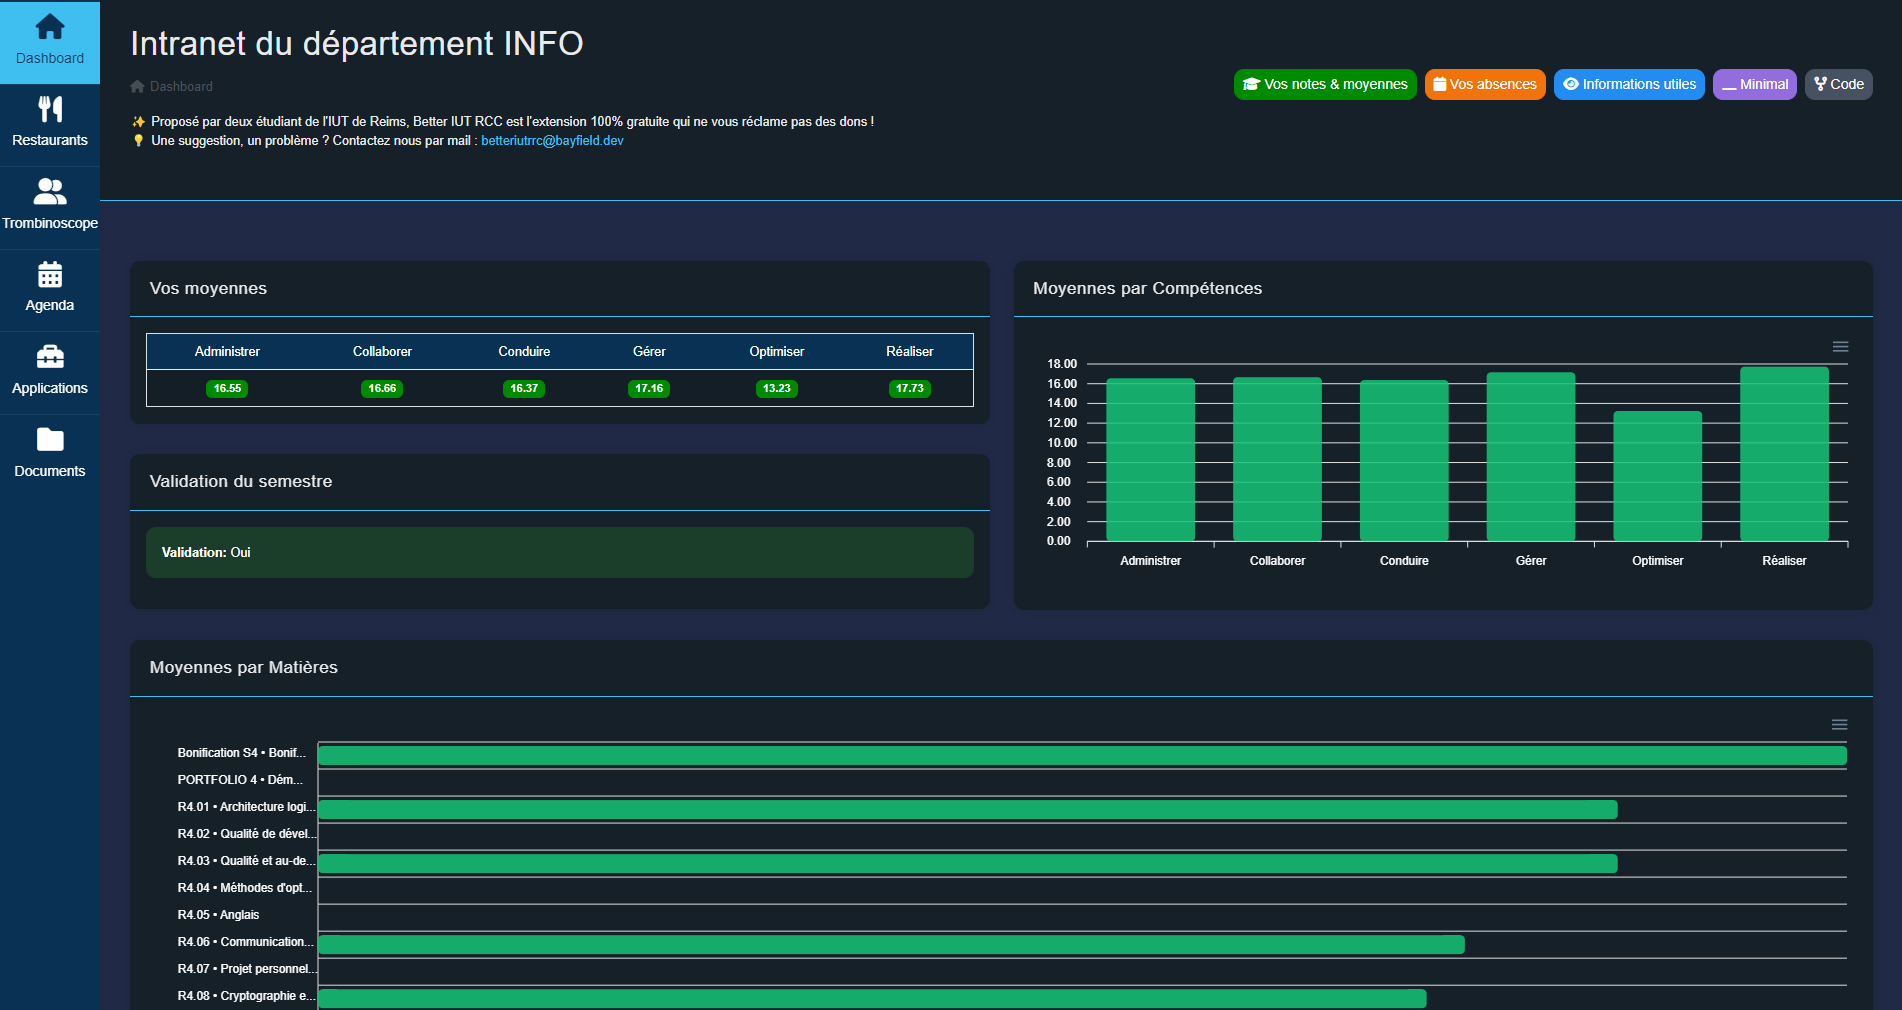
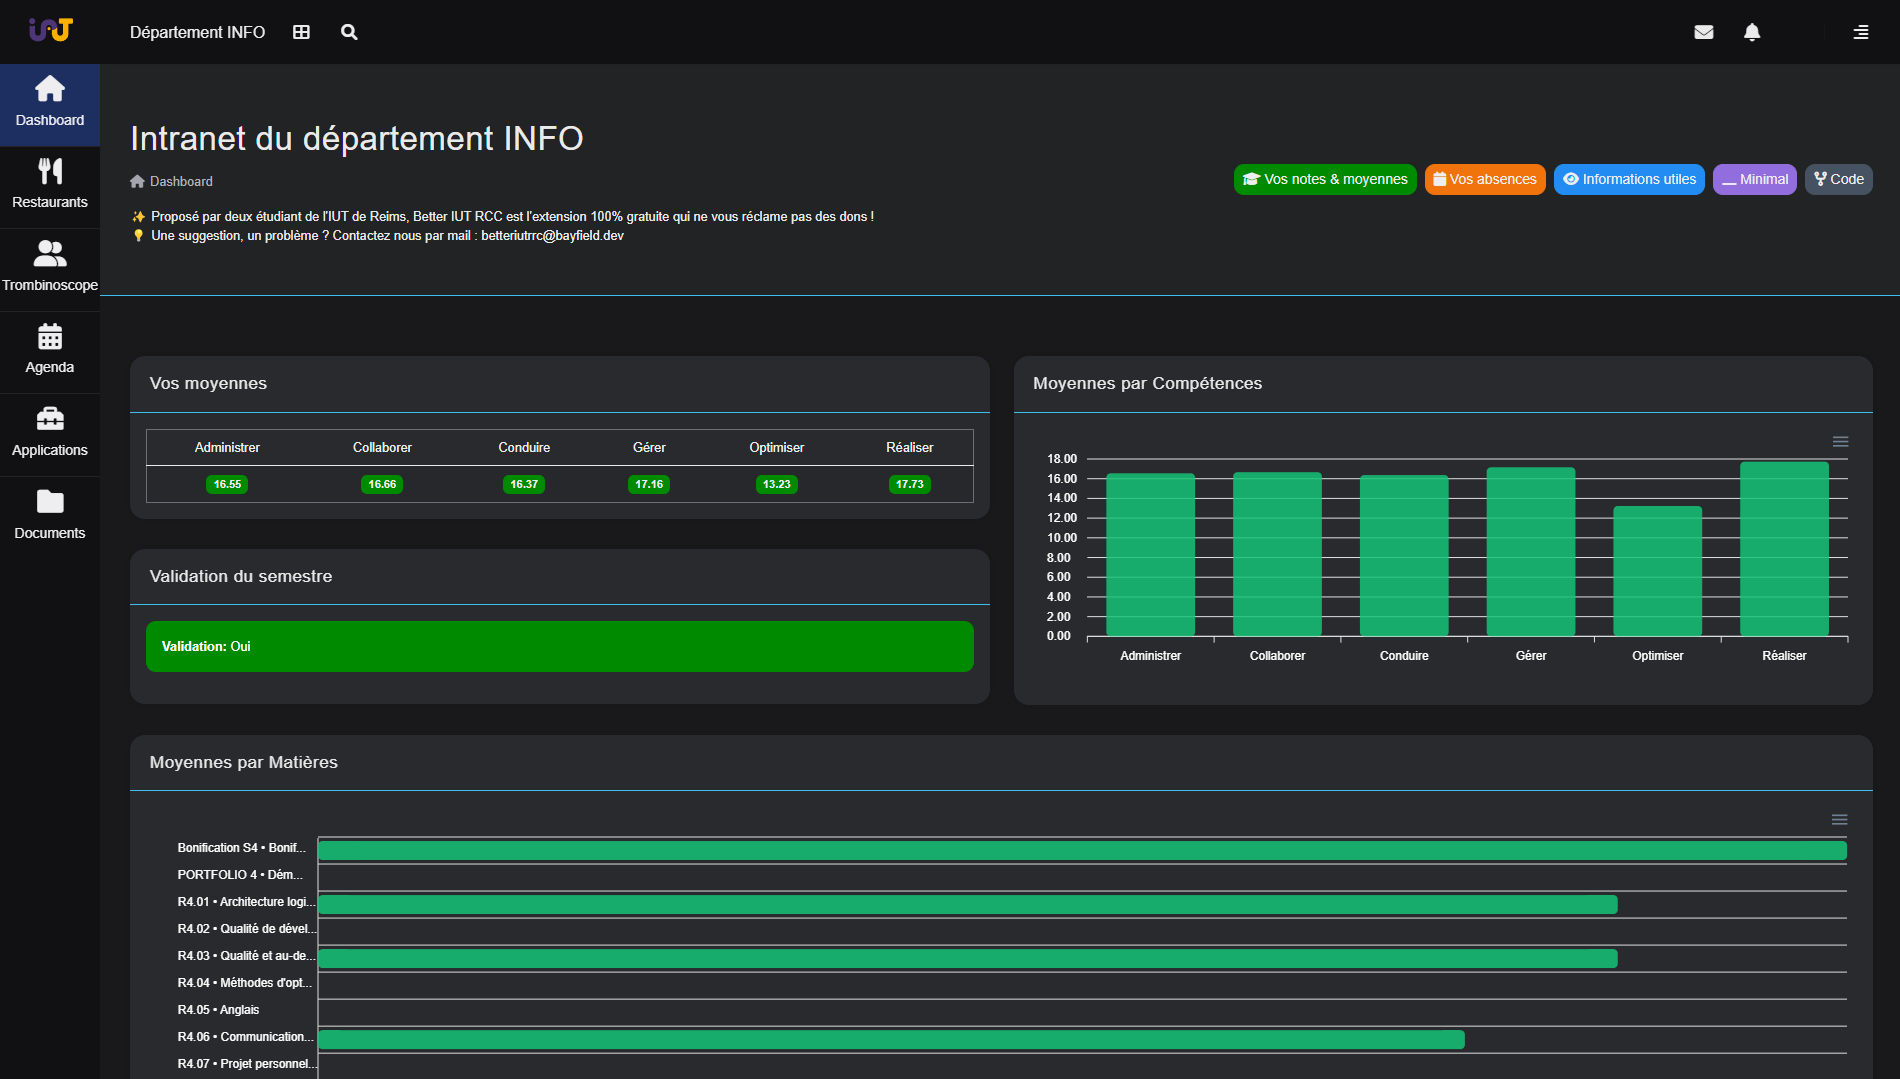
feat: nouveau dark mode

diff --git a/src/css/custom.scss b/src/css/custom.scss
@@ -15,42 +15,114 @@ tr.moyenne {
     font-weight: bold;
 }
 
+.card, .media-list, .code-preview {
+    border-radius: 15px !important;
+}
+
+#darkMode {
+    display: none;
+}
+
 body.rcc.dark-theme {
-    #image-menu {
+    .main-container {
+        background-color: #19191B !important;
+    }
+
+    .topbar {
+        background-color: #111113 !important;
+    }
+
+    .header {
+        background-color: #222325 !important;
+    }
+
+    .card-header-actions {
+        *:hover {
+            color: #EEEEF0 !important;
+        }
+    }
+
+    .breadcrumb > * {
+        color: #B2B3BD !important;
+    }
+    
+    .sidebar-header, .sidebar-navigation {
+        background-color: #111113 !important;
+    }
+
+    .sidebar-navigation > .menu > .active > .menu-link {
+        background-color: #1D2E61 !important;
+        color: #EEEEF0 !important;
+    }
+
+    a, a:focus {
+        color: #EEEEF0 !important;
+    }
+
+    a:hover {
+        color: #B2B3BD !important;
+    }
+
+    .div_logo {
+        background-color: inherit !important;
+    }
+    
+    .div_logo > img {
         filter: none !important;
     }
 
+    .card, .media-list, .code-preview {
+        background-color: #292A2E !important;
+        color: #EEEEF0 !important;
+    }
+
+    .card-body, .card-body p, .card-body li {
+        color: #EEEEF0;
+    }
+
+    .nav-link {
+        color: #EEEEF0 !important;
+    }
+
+    .bg-white, .media-new {
+        background-color: inherit !important;
+        
+        * {
+            color: #EEEEF0;
+        }
+    }
+
+    table {
+        border-color: #6C6E79 !important;
+    }
+
+    .table > :not(caption) > * > * {
+        background-color: #292A2E !important;
+        color: #EEEEF0 !important;
+    }
+
+    thead {
+        background-color: #172448 !important;
+    }
+
     tr.moyenne {
-        border-bottom: inherit;
+        border-bottom: solid #6C6E79 3px !important;
     }
 
     .dropdown-menu, .dropdown-footer {
         background-color: var(--body) !important;
 
         * {
-            color: white;
+            color: #EEEEF0 !important;
         }
     }
 
     .dropdown-item {
-        color: white;
+        color: #EEEEF0 !important;
     }
 
-    .main-container {
-        background-color: var(--body);
-    }
-    
-    .sidebar-header {
-        background-color: inherit !important;
-    }
-    
-    .div_logo {
-        background-color: inherit !important;
-    }
-    
-    .table > :not(caption) > * > * {
-        background-color: inherit !important;
-        color: white;
+    .badge {
+        color: #EEEEF0 !important;
     }
 
     .bg-pale-success {
@@ -58,27 +130,27 @@ body.rcc.dark-theme {
     }
 
     .alert-success {
-        background-color: rgb(26, 62, 41) !important;
+        background-color: var(--colorSuccess) !important;
         color: white !important;
     }
 
     .alert-secondary {
-        background-color: #004daa !important;
+        background-color: var(--colorSecondary) !important;
         color: #e8e6e3 !important;
     }
 
     .alert-danger {
-        background-color: #004daa !important;
+        background-color: var(--colorDanger) !important;
         color: #e8e6e3 !important;
     }
 
     .alert-warning {
-        background-color: #004daa !important;
+        background-color: var(--colorWarning) !important;
         color: #e8e6e3 !important;
     }
 
     .alert-info {
-        background-color: #004daa !important;
+        background-color: var(--colorInfo) !important;
         color: #e8e6e3 !important;
     }
 
@@ -105,7 +177,7 @@ body.rcc.dark-theme {
     }
 
     #image-menu {
-        filter: invert();
+        filter: none !important;
     }
 
     #restaurant {
@@ -113,19 +185,5 @@ body.rcc.dark-theme {
         color: white;
     }
 
-    .card-body, .card-body p, .card-body li {
-        color: white;
-    }
-
-    .nav-link {
-        color: var(--colorTextA);
-    }
-
-    .bg-white, .media-new {
-        background-color: inherit !important;
-        
-        * {
-            color: white;
-        }
-    }
+    
 }

diff --git a/src/main.js b/src/main.js
@@ -16,8 +16,6 @@ import * as browser from 'webextension-polyfill';
 
     // Vérifie si l'utilisateur est sur la page "tableau de bord"
     if (window.location.pathname === "/fr/tableau-de-bord") {
-        document.querySelector('#darkMode').remove();
-
         const average = new Average();
 
         // Nettoie les cartes et les réorganise
